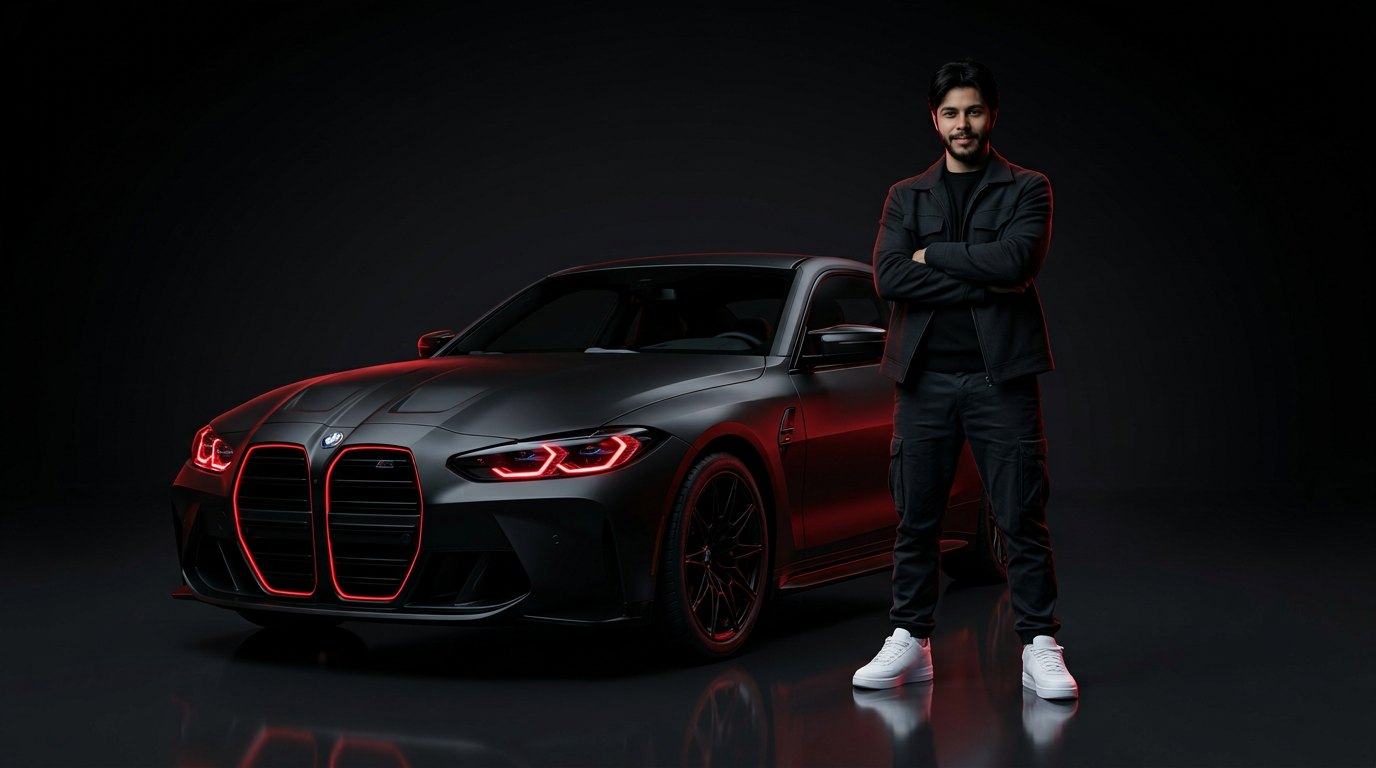
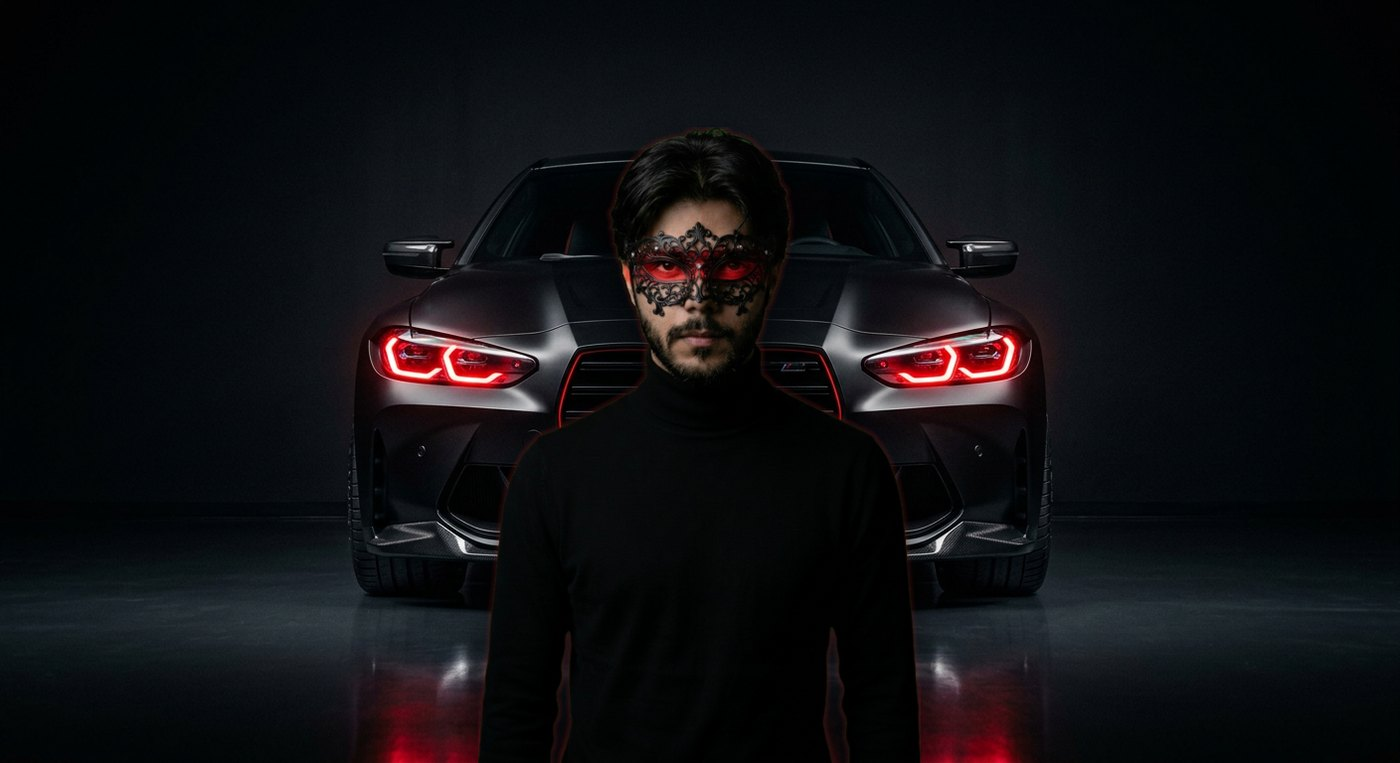
v23: hero composite rebuilt - exact reference face (chroma-key, zero AI face change), standing centered leaning on M4 front badge, burning red angel eyes both sides, soft red rim + shadow; glow overlays repositioned; ?v=23

diff --git a/portfolio-site/assets/styles.css b/portfolio-site/assets/styles.css
@@ -580,9 +580,9 @@ body{overscroll-behavior-y:auto}
 .hero-car img{width:100%;display:block;filter:brightness(1.4) contrast(1.12) saturate(1.06)}
 .hero-eye,.hero-type,.hero-row{position:relative;z-index:1}
 .hl{position:absolute;width:17%;height:12%;transform:translate(-50%,-50%);border-radius:50%;background:radial-gradient(closest-side,rgba(255,82,92,.9),rgba(210,31,43,.55) 45%,rgba(210,31,43,.18) 68%,transparent 78%);filter:blur(1px);opacity:0;animation:hlBurn 7.5s ease-in-out infinite}
-.hl-l{left:12.8%;top:59.1%}
-.hl-r{left:37.5%;top:59.1%;animation-delay:.14s}
-.hl-gnd{position:absolute;left:26%;top:84%;transform:translateX(-50%);width:54%;height:15%;background:radial-gradient(closest-side,rgba(255,196,120,.26),transparent 70%);filter:blur(7px);opacity:0;animation:hlBurn 7.5s ease-in-out infinite}
+.hl-l{left:33.8%;top:38.7%}
+.hl-r{left:65.6%;top:38.7%;animation-delay:.14s}
+.hl-gnd{position:absolute;left:50%;top:86%;transform:translateX(-50%);width:54%;height:15%;background:radial-gradient(closest-side,rgba(255,196,120,.26),transparent 70%);filter:blur(7px);opacity:0;animation:hlBurn 7.5s ease-in-out infinite}
 @keyframes hlBurn{0%{opacity:0}3%{opacity:.85}5%{opacity:.15}8%{opacity:1}12%{opacity:.92}38%{opacity:.85}58%{opacity:.26}66%{opacity:.08}70%{opacity:.72}82%{opacity:.45}100%{opacity:0}}
 .solidarity{background:var(--ink2);border-top:1px solid #202024;border-bottom:1px solid #202024;padding:clamp(48px,8vw,110px) var(--pad);display:flex;align-items:center;justify-content:center;gap:clamp(28px,6vw,90px);flex-wrap:wrap;overflow:hidden}
 .sol-flag canvas{width:min(430px,78vw);height:auto;display:block;filter:drop-shadow(0 18px 40px rgba(0,0,0,.55))}
@@ -593,8 +593,8 @@ body{overscroll-behavior-y:auto}
 
 /* ══ v20 M4 BEAMS + DEPTH + FLAG SWAY ═════════════════════ */
 .beam{position:absolute;top:57%;width:27%;height:36%;background:linear-gradient(to bottom,rgba(255,240,205,.34),rgba(255,196,120,.10) 55%,transparent 82%);clip-path:polygon(40% 0,60% 0,100% 100%,0 100%);filter:blur(7px);opacity:0;animation:hlBurn 7.5s ease-in-out infinite}
-.beam-l{left:-1%;transform:rotate(4deg)}
-.beam-r{left:24%;transform:rotate(-4deg)}
+.beam-l{left:20.3%;transform:rotate(4deg)}
+.beam-r{left:52.1%;transform:rotate(-4deg)}
 .hero-car{will-change:transform}
 .sol-flag{position:relative}
 .sol-flag::after{content:"";position:absolute;left:6%;right:4%;bottom:-7%;height:26px;background:radial-gradient(closest-side,rgba(0,0,0,.55),transparent 72%);filter:blur(5px)}

diff --git a/portfolio-site/index.html b/portfolio-site/index.html
@@ -17,7 +17,7 @@
 <meta name="twitter:description" content="AI learner • content creator • developer. Opens with a 28-second portfolio film.">
 <meta name="twitter:image" content="assets/thumbs/th-power.jpg">
 <link rel="preload" href="assets/fonts/Manrope-800.ttf" as="font" type="font/ttf" crossorigin>
-<link rel="stylesheet" href="assets/styles.css?v=22">
+<link rel="stylesheet" href="assets/styles.css?v=23">
 </head>
 <body class="locked">
 
@@ -70,7 +70,7 @@
   <!-- ── Hero ────────────────────────────────────────────────── -->
   <section class="hero">
     <div class="hero-car" aria-hidden="true">
-      <img src="assets/adil-m4.jpg?v=22" alt="" decoding="async">
+      <img src="assets/adil-m4.jpg?v=23" alt="" decoding="async">
       <span class="hl hl-l"></span><span class="hl hl-r"></span><span class="beam beam-l"></span><span class="beam beam-r"></span><span class="hl-gnd"></span>
     </div>
     <p class="mono hero-eye" data-rv="up" data-scramble>/ PORTFOLIO — EST. MARCH 2024 — <span id="clk">--:--:--</span> LOCAL — ©2026</p>
